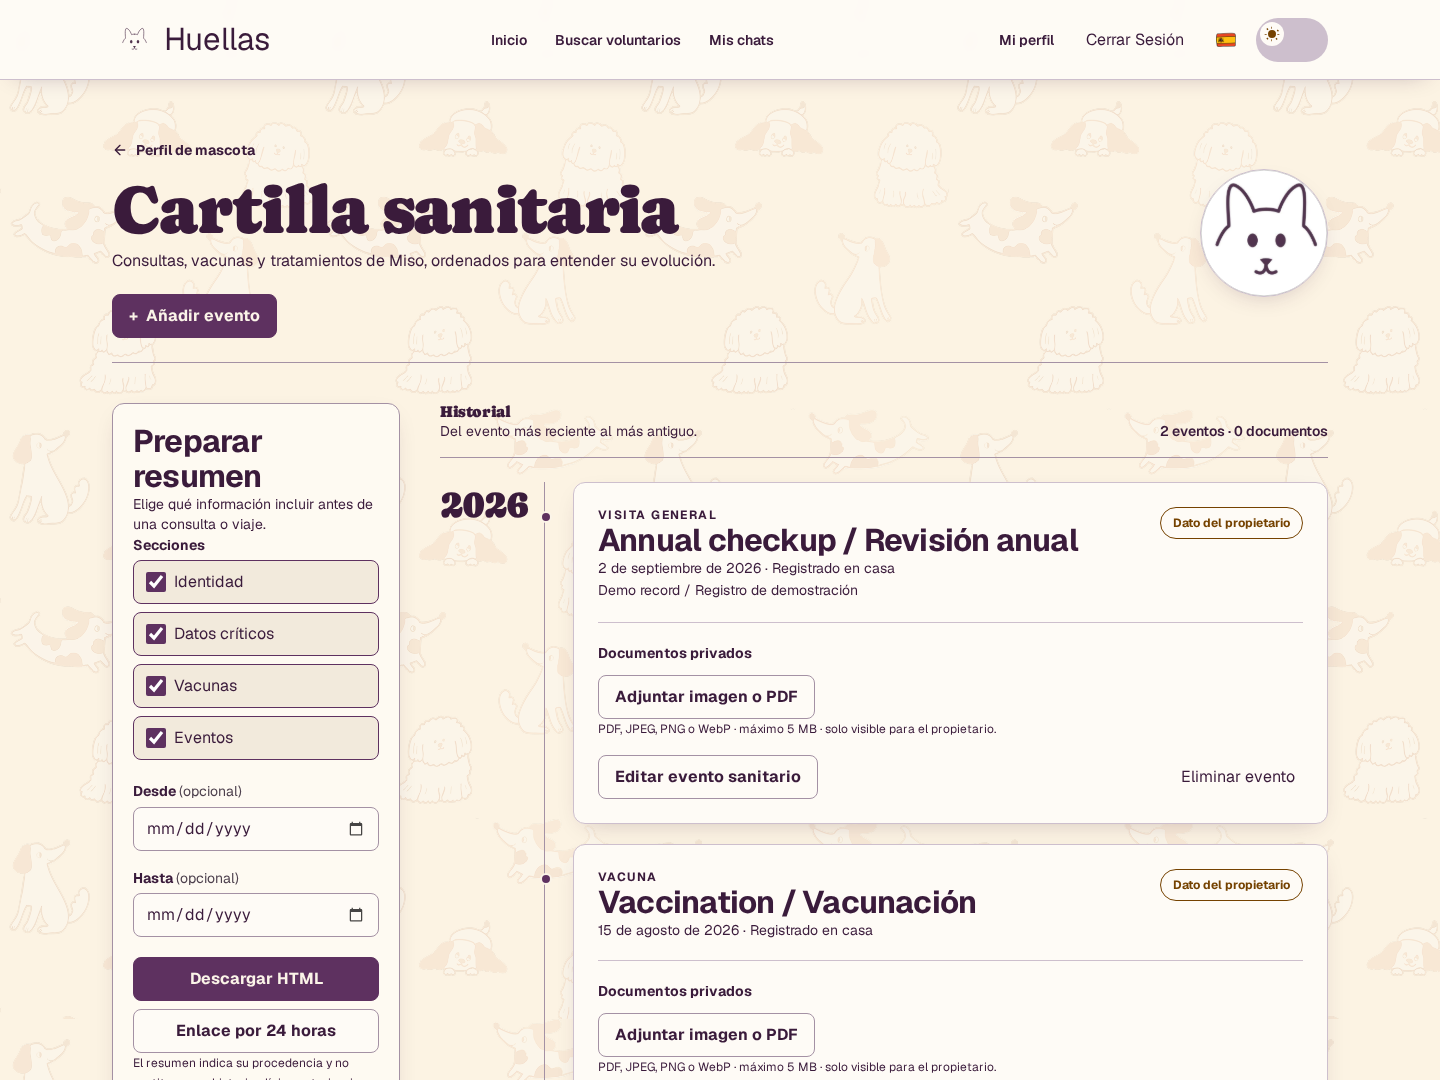
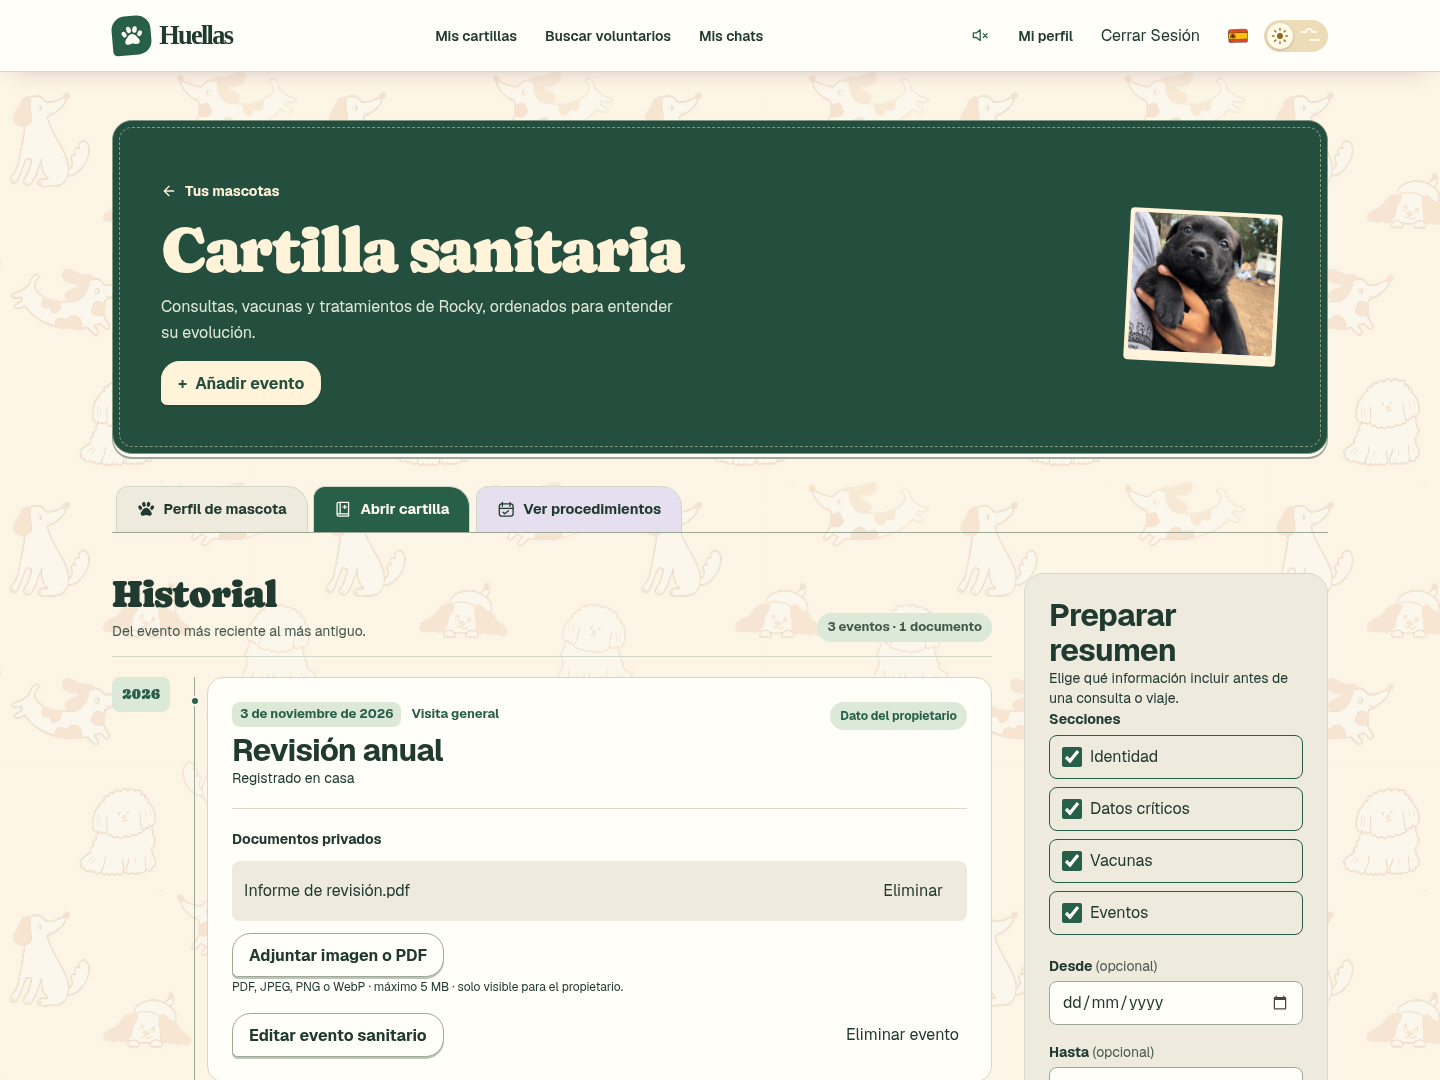
docs: refresh Huellas portfolio screenshots

diff --git a/docs/portfolio/README.md b/docs/portfolio/README.md
@@ -1,0 +1,19 @@
+# Huellas portfolio screenshots
+
+Captured at 1440 × 900 in Spanish and English from Huellas at commit
+`18cb48f`, using the local React frontend, API and MySQL with a disposable
+demonstration account. The pet records, appointments and attached report are
+fictional. The preventive catalog retains its stored Spanish procedure names.
+
+| View | Español | English |
+| --- | --- | --- |
+| Home | [Spanish](home-es.jpg) | [English](home-en.jpg) |
+| Login | [Spanish](login-es.jpg) | [English](login-en.jpg) |
+| Registration | [Spanish](register-es.jpg) | [English](register-en.jpg) |
+| Care agenda | [Spanish](care-agenda-es.jpg) | [English](care-agenda-en.jpg) |
+| Health book cover (1440 × 1080) | [Spanish](../huellas-preview-es.png) | [English](../huellas-preview.png) |
+| Health history and sharing | [Spanish](health-record-es.jpg) | [English](health-record-en.jpg) |
+| Preventive plan | [Spanish](preventive-plan-es.jpg) | [English](preventive-plan-en.jpg) |
+| Appointments | [Spanish](appointments-es.jpg) | [English](appointments-en.jpg) |
+
+[Compact Spanish home cover (720 × 900)](home-compact-es.png)
